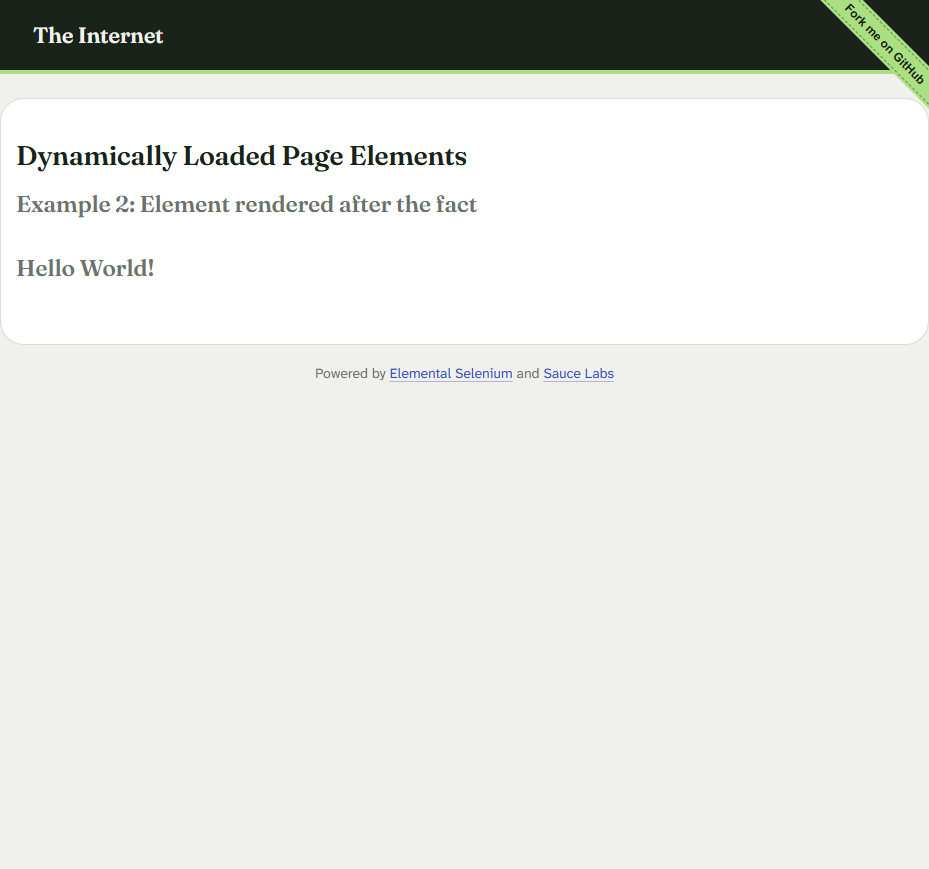
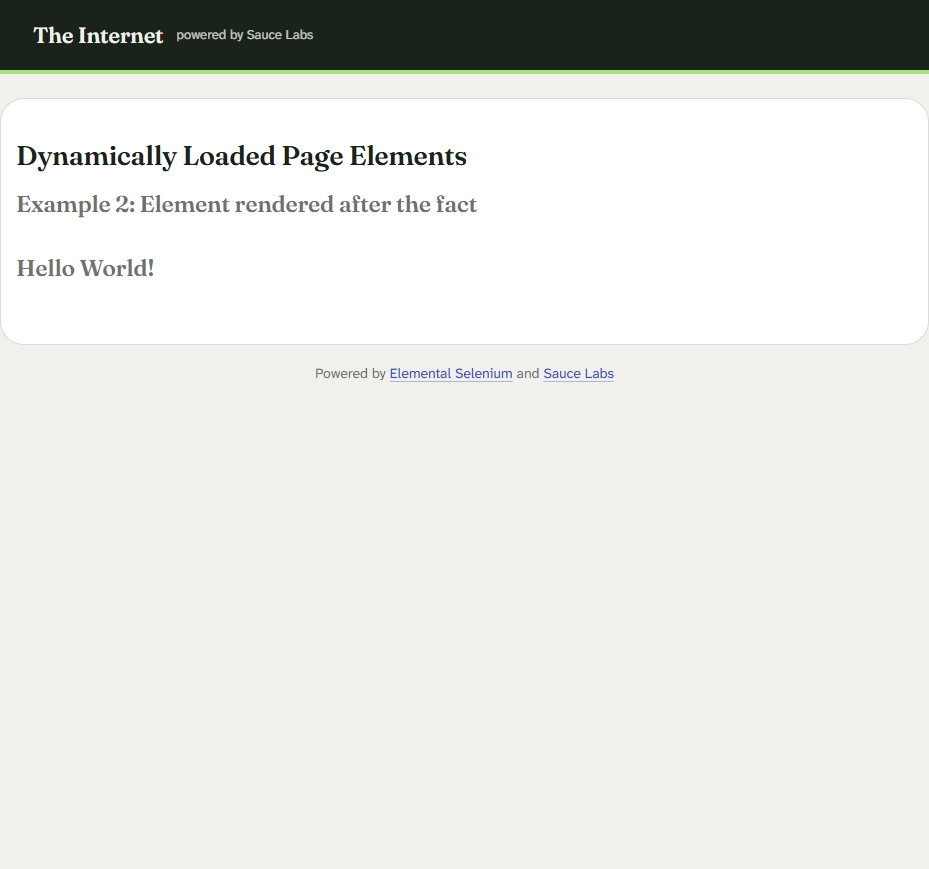
Добавила ДЗ lesson_06K

Changed region(s): [[0.8741, 0.0, 1.0, 0.1243], [0.1873, 0.0311, 0.3434, 0.0621]]

diff --git a/lesson_06K/test_03_shop.py b/lesson_06K/test_03_shop.py
@@ -1,0 +1,101 @@
+import pytest
+from selenium import webdriver
+from selenium.webdriver.common.by import By
+from selenium.webdriver.support.ui import WebDriverWait
+from selenium.webdriver.support import expected_conditions as EC
+
+BASE_URL = "https://www.saucedemo.com/"
+LOGIN = "standard_user"
+PASSWORD = "secret_sauce"
+FIRST_NAME = "Юлия"
+LAST_NAME = "Вихарева"
+POSTAL_CODE = "457351"
+EXPECTED_TOTAL = "Total: $58.29"
+WAIT_TIMEOUT = 10
+
+CART_LINK = (By.CLASS_NAME, "shopping_cart_link")
+CHECKOUT_BUTTON = (By.ID, "checkout")
+FIRST_NAME_INPUT = (By.ID, "first-name")
+LAST_NAME_INPUT = (By.ID, "last-name")
+POSTAL_CODE_INPUT = (By.ID, "postal-code")
+CONTINUE_BUTTON = (By.ID, "continue")
+TOTAL_LABEL = (By.CLASS_NAME, "summary_total_label")
+
+ITEMS_TO_ADD = (
+    "sauce-labs-backpack",
+    "sauce-labs-bolt-t-shirt",
+    "sauce-labs-onesie",
+)
+
+
+@pytest.fixture
+def driver():
+    drv = webdriver.Firefox()
+    drv.maximize_window()
+    yield drv
+    drv.quit()
+
+
+def test_shop(driver):
+    wait = WebDriverWait(driver, WAIT_TIMEOUT)
+
+    driver.get(BASE_URL)
+
+    user_name_input = wait.until(
+        EC.presence_of_element_located((By.ID, "user-name"))
+    )
+    user_name_input.send_keys(LOGIN)
+
+    password_input = wait.until(
+        EC.presence_of_element_located((By.ID, "password"))
+    )
+    password_input.send_keys(PASSWORD)
+
+    login_button = wait.until(
+        EC.element_to_be_clickable((By.ID, "login-button"))
+    )
+    login_button.click()
+
+    for item_slug in ITEMS_TO_ADD:
+        add_button = wait.until(
+            EC.element_to_be_clickable((By.ID, f"add-to-cart-{item_slug}"))
+        )
+        add_button.click()
+
+    cart_link = wait.until(EC.element_to_be_clickable(CART_LINK))
+    cart_link.click()
+
+    checkout_button = wait.until(
+        EC.element_to_be_clickable(CHECKOUT_BUTTON)
+    )
+    checkout_button.click()
+
+    first_name_input = wait.until(
+        EC.visibility_of_element_located(FIRST_NAME_INPUT)
+    )
+    first_name_input.send_keys(FIRST_NAME)
+
+    last_name_input = wait.until(
+        EC.visibility_of_element_located(LAST_NAME_INPUT)
+    )
+    last_name_input.send_keys(LAST_NAME)
+
+    postal_code_input = wait.until(
+        EC.visibility_of_element_located(POSTAL_CODE_INPUT)
+    )
+    postal_code_input.send_keys(POSTAL_CODE)
+
+    continue_button = wait.until(
+        EC.element_to_be_clickable(CONTINUE_BUTTON)
+    )
+    continue_button.click()
+
+    total_element = wait.until(
+        EC.visibility_of_element_located(TOTAL_LABEL)
+    )
+    total_text = total_element.text.strip()
+    print(f"Итоговая стоимость со страницы: {total_text!r}")
+
+    assert total_text == EXPECTED_TOTAL, (
+        f"Ожидалось '{EXPECTED_TOTAL}', но получено: {total_text}"
+    )

diff --git a/lesson_06K/test_01_form.py b/lesson_06K/test_01_form.py
@@ -1,0 +1,73 @@
+import pytest
+from selenium import webdriver
+from selenium.webdriver.common.by import By
+from selenium.webdriver.support.ui import WebDriverWait
+from selenium.webdriver.support import expected_conditions as EC
+
+URL = "https://bonigarcia.dev/selenium-webdriver-java/data-types.html"
+
+FORM_DATA = {
+    "first-name": "Иван",
+    "last-name": "Петров",
+    "address": "Ленина, 55-3",
+    "e-mail": "test@skypro.com",
+    "phone": "+7985899998787",
+    "zip-code": "",
+    "city": "Москва",
+    "country": "Россия",
+    "job-position": "QA",
+    "company": "SkyPro",
+}
+
+GREEN_FIELD_IDS = [
+    "first-name",
+    "last-name",
+    "address",
+    "e-mail",
+    "phone",
+    "city",
+    "country",
+    "job-position",
+    "company",
+]
+
+
+@pytest.fixture
+def driver():
+    drv = webdriver.Edge()
+    drv.maximize_window()
+    yield drv
+    drv.quit()
+
+
+def test_edge(driver):
+    wait = WebDriverWait(driver, 15)
+
+    driver.get(URL)
+    wait.until(EC.presence_of_element_located((By.NAME, "first-name")))
+
+    for name, value in FORM_DATA.items():
+        field = wait.until(EC.presence_of_element_located((By.NAME, name)))
+        field.send_keys(value)
+
+    submit_button = wait.until(
+        EC.element_to_be_clickable(
+            (By.CSS_SELECTOR, "button[type='submit']")
+        )
+    )
+    submit_button.click()
+
+    zip_code_field = wait.until(
+        EC.presence_of_element_located((By.ID, "zip-code"))
+    )
+    assert "alert-danger" in zip_code_field.get_attribute("class"), (
+        "Поле Zip code должно быть подсвечено красным"
+    )
+
+    for field_id in GREEN_FIELD_IDS:
+        field = driver.find_element(By.ID, field_id)
+        field_classes = field.get_attribute("class")
+        assert "alert-success" in field_classes, (
+            f"Поле {field_id} должно быть подсвечено зелёным, "
+            f"классы: {field_classes}"
+        )

diff --git a/lesson_06K/test_02_calc.py b/lesson_06K/test_02_calc.py
@@ -1,0 +1,52 @@
+import pytest
+from selenium import webdriver
+from selenium.webdriver.common.by import By
+from selenium.webdriver.support.ui import WebDriverWait
+from selenium.webdriver.support import expected_conditions as EC
+
+BASE_URL = (
+    "https://bonigarcia.dev/selenium-webdriver-java/"
+    "slow-calculator.html"
+)
+DELAY = "45"
+EXPECTED_RESULT = "15"
+WAIT_TIMEOUT = 60
+
+SCREEN = (By.CLASS_NAME, "screen")
+DELAY_INPUT = (By.ID, "delay")
+
+
+@pytest.fixture
+def driver():
+    drv = webdriver.Chrome()
+    drv.maximize_window()
+    yield drv
+    drv.quit()
+
+
+def test_slow_calculator(driver):
+    wait = WebDriverWait(driver, WAIT_TIMEOUT)
+
+    driver.get(BASE_URL)
+    wait.until(EC.presence_of_element_located(DELAY_INPUT))
+
+    delay_input = driver.find_element(*DELAY_INPUT)
+    delay_input.clear()
+    delay_input.send_keys(DELAY)
+
+    for value in ("7", "+", "8", "="):
+        xpath_expr = f"//span[normalize-space()='{value}']"
+        button = wait.until(
+            EC.element_to_be_clickable((By.XPATH, xpath_expr))
+        )
+        button.click()
+
+    wait.until(
+        EC.text_to_be_present_in_element(SCREEN, EXPECTED_RESULT)
+    )
+
+    screen_text = driver.find_element(*SCREEN).text.strip()
+    assert screen_text == EXPECTED_RESULT, (
+        f"Ожидался результат {EXPECTED_RESULT}, "
+        f"получено: {screen_text}"
+    )
